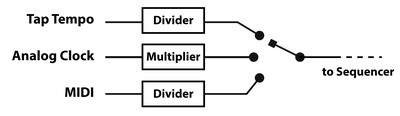
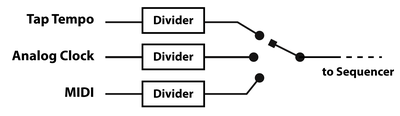
fixed clock dividers

Changed region(s): [[0.36, 0.4397, 0.51, 0.5431]]

diff --git a/index.html b/index.html
@@ -415,7 +415,7 @@ Pressing the button will set it to the selected Sound.</p>
 </blockquote>
 <h2>Clock Source</h2>
 <p>The sequencer can run from one of the three different clock sources.
-Before a clock signal is used for the sequencer it passes a clock divider/multiplier.</p>
+Before a clock signal is used for the sequencer it passes a clock divider.</p>
 <p><img class="image-process-small" src="images/derivatives/small/thyme_Sequencer-Clock-General.png"/> </p>
 <table>
 <thead>
@@ -452,33 +452,33 @@ Before a clock signal is used for the sequencer it passes a clock divider/multip
 <tr>
 <th></th>
 <th>Tap</th>
-<th>Analog Clock<a data-footnote="19" data-title="The clock is not interpolated but intermediate (sub)steps are skipped when using divider B to D."></a></th>
+<th>Analog Clock</th>
 <th>MIDI</th>
 </tr>
 </thead>
 <tbody>
 <tr>
 <td><strong>A</strong></td>
-<td>2 substeps per tap</td>
-<td>1 substep per clock</td>
+<td>2 steps per tap</td>
+<td>1 substep per edge</td>
 <td>8 substeps per quarter note</td>
 </tr>
 <tr>
 <td><strong>B</strong></td>
-<td>1 substep per tap</td>
-<td>2 substeps per clock</td>
+<td>1 step per tap</td>
+<td>1 substep per 2 edges</td>
 <td>4 substeps per quarter note</td>
 </tr>
 <tr>
 <td><strong>C</strong></td>
-<td>1 substep per 2 taps</td>
-<td>1 step per clock</td>
+<td>2 substeps per tap</td>
+<td>1 substep per 4 edges</td>
 <td>2 substeps per quarter note</td>
 </tr>
 <tr>
 <td><strong>D</strong></td>
-<td>1 substep per 4 taps</td>
-<td>2 steps per clock</td>
+<td>1 substep per tap</td>
+<td>1 substep per 8 edges</td>
 <td>1 substep per quarter note</td>
 </tr>
 </tbody>
@@ -495,7 +495,7 @@ So you can for example have option B activated for the Tap Source and Option D f
 </blockquote>
 <h3>Tap Tempo</h3>
 <p>When Tap is selected as a clock source, the speed of the sequencer can be set by the <code>TAP</code> button.
-The average time between two button presses will be taken as the time for one step<a data-footnote="20" data-title="This refers to the clock speed before the divider, as indicated by the TAP LED."></a>.
+The average time between two button presses will be taken as the time for one step<a data-footnote="19" data-title="This refers to the clock speed before the divider, as indicated by the TAP LED."></a>.
 If you hit the button only every few steps, this is interpreted as resync events only.</p>
 <p>Furthermore, Thyme can be used as MIDI clock master when running from Tap clock.</p>
 <h3>Manual Resync</h3>
@@ -511,7 +511,7 @@ The detailed behavior is different for each clock source</p>
 <tbody>
 <tr>
 <td><strong>Tap</strong></td>
-<td>Set both input clock and sequencer to the closest whole step.<a data-footnote="21" data-title="Realized by slowing down or speeding up certain clock domains. Any device down the bus running as MIDI slave from Thyme’s MIDI clock output will stay in sync with Thyme’s sequencer."></a> This is triggered also during regular taps.</td>
+<td>Set both input clock and sequencer to the closest whole step.<a data-footnote="20" data-title="Realized by slowing down or speeding up certain clock domains. Any device down the bus running as MIDI slave from Thyme’s MIDI clock output will stay in sync with Thyme’s sequencer."></a> This is triggered also during regular taps.</td>
 </tr>
 <tr>
 <td><strong>Analog Clock</strong></td>
@@ -519,7 +519,7 @@ The detailed behavior is different for each clock source</p>
 </tr>
 <tr>
 <td><strong>MIDI</strong></td>
-<td>Activate the first step on the next MIDI clock message. <a data-footnote="22" data-title="This can be used to sync to a MIDI clock that does not provide Start/Stop messages. But it can also cause desyncronization. Use with caution."></a></td>
+<td>Activate the first step on the next MIDI clock message. <a data-footnote="21" data-title="This can be used to sync to a MIDI clock that does not provide Start/Stop messages. But it can also cause desyncronization. Use with caution."></a></td>
 </tr>
 </tbody>
 </table>
@@ -528,7 +528,7 @@ The detailed behavior is different for each clock source</p>
 <h2>Banks</h2>
 <p>As described in the previous sections, there are four Patterns which can each contain any of the eight Sounds.
 Together they form a memory <strong>Bank</strong>.</p>
-<p>There are eight of these independent<a data-footnote="23" data-title="Sounds of one bank cannot be used in a pattern from a different bank."></a> Banks.
+<p>There are eight of these independent<a data-footnote="22" data-title="Sounds of one bank cannot be used in a pattern from a different bank."></a> Banks.
 Please note, that although switching Banks is usually fast it can temporarily disturb syncing of delay time and oscillator Robots.
 The sound processing however is guaranteed to be glitch-free.</p>
 <blockquote>
@@ -538,12 +538,12 @@ Press one of the <code>1-8</code> buttons to switch the bank.</p>
 <p><img class="image-process-main" src="images/derivatives/main/thyme_Memory-ChangeBank.png"/></p>
 </blockquote>
 <h2>Copy and Paste</h2>
-<p>To quickly create Sounds, you can copy and paste them to and from different Sound slots.<a data-footnote="24" data-title="The copy that is taken is a true copy, meaning you can modify the Sound the copy was made from without modifying the copy itself."></a></p>
+<p>To quickly create Sounds, you can copy and paste them to and from different Sound slots.<a data-footnote="23" data-title="The copy that is taken is a true copy, meaning you can modify the Sound the copy was made from without modifying the copy itself."></a></p>
 <p>Also you can copy and paste between Banks.</p>
 <blockquote>
 <h3>Copy and Paste a Sound</h3>
 <p>To copy the active Sound, hold down <code>Fn</code> and press <code>WRITE</code>.
-To paste the stored copy top the active Sound, hold down <code>Fn</code> and press <code>PLAY</code>.<a data-footnote="25" data-title="After performing Copy or Paste, all other Fn combinations are only accessible if you release and press again the Fn button. This is done to avoid accidentally changing banks."></a></p>
+To paste the stored copy top the active Sound, hold down <code>Fn</code> and press <code>PLAY</code>.<a data-footnote="24" data-title="After performing Copy or Paste, all other Fn combinations are only accessible if you release and press again the Fn button. This is done to avoid accidentally changing banks."></a></p>
 <p><img class="image-process-main" src="images/derivatives/main/thyme_Memory-CopyPaste.png"/></p>
 </blockquote>
 <h2>Clear Sound or Pattern</h2>
@@ -678,7 +678,7 @@ Channel 9-16: <code>Fn</code> and <code>1-8</code> buttons</br></p>
 <p>The new channel will be indicated right away, as described above.</p>
 </blockquote>
 <h4>Control Change</h4>
-<p>With Control Change Messages you can control all parameters of the selected Sound<a data-footnote="26" data-title="The hardware interface and MIDI work concurrently."></a>.<br/>
+<p>With Control Change Messages you can control all parameters of the selected Sound<a data-footnote="25" data-title="The hardware interface and MIDI work concurrently."></a>.<br/>
 The data byte of any midi control message is interpreted in one of these ways.</p>
 <table>
 <thead>
@@ -868,7 +868,7 @@ The data byte of any midi control message is interpreted in one of these ways.</
 <tr>
 <td>CC125</td>
 <td>Trigger</td>
-<td>Dump the settings of the current Sound to MIDI output<a data-footnote="27" data-title="This means sending CC1-CC63 and CC68-CC88 - according to the settings of the current Sound - on the current input channel."></a></td>
+<td>Dump the settings of the current Sound to MIDI output<a data-footnote="26" data-title="This means sending CC1-CC63 and CC68-CC88 - according to the settings of the current Sound - on the current input channel."></a></td>
 </tr>
 </tbody>
 </table>
@@ -909,7 +909,7 @@ A history of active notes is tracked and once you release the latest note it fal
 <p>Using the fine delay, filter and feedback knob, Thyme can be configured for Karplus-Strong-Synthesis allowing separate control over pitch, timbre and decay time.</p>
 <p>To facilitate the use as a synthesizer two parameter automations are implemented:</p>
 <ol>
-<li>When receiving MIDI Note-On messages 9-127 the fine delay knob is set to create a resonant frequency equal to the frequency defined by the MIDI note<a data-footnote="28" data-title="This is only accurate on full tape speed."></a>.</li>
+<li>When receiving MIDI Note-On messages 9-127 the fine delay knob is set to create a resonant frequency equal to the frequency defined by the MIDI note<a data-footnote="27" data-title="This is only accurate on full tape speed."></a>.</li>
 <li>The decay time in Karplus-Strong configuration is depending both on the delay time and the amount of feedback. To keep the delay time constant for different MIDI notes, the feedback is reduced for low notes. This feature can be enabled/disabled by CC89</li>
 </ol>
 <h3>Realtime Messages</h3>
@@ -953,8 +953,8 @@ You will see an animation on the <code>1-8</code> LEDs indicating that you are n
 There are two different methods to ensure the correct timing.</p>
 <h3>MIDI file</h3>
 <p>Placing SysEx messages at certain positions in a MIDI file allows to define their timing.
-All you have to do is send<a data-footnote="29" data-title="Please note, that ‘sending’ the .mid file is something else than ‘playing it back’, which usually means interpreting it and generating audio from it."></a> that MIDI file through the port Thyme is connected to.</p>
-<p>Unfortunately there are hardly any<a data-footnote="30" data-title="On Linux you can use aplaymidi from the commandline."></a> applications that do this fairly simple job so we wrote one ourselves.
+All you have to do is send<a data-footnote="28" data-title="Please note, that ‘sending’ the .mid file is something else than ‘playing it back’, which usually means interpreting it and generating audio from it."></a> that MIDI file through the port Thyme is connected to.</p>
+<p>Unfortunately there are hardly any<a data-footnote="29" data-title="On Linux you can use aplaymidi from the commandline."></a> applications that do this fairly simple job so we wrote one ourselves.
 It can be downloaded for Linux, MacOS and Windows <a href="">here</a>.</p>
 <p>The usage is very straightforward:
 Open the downloaded MIDI file containing the firmware update,
